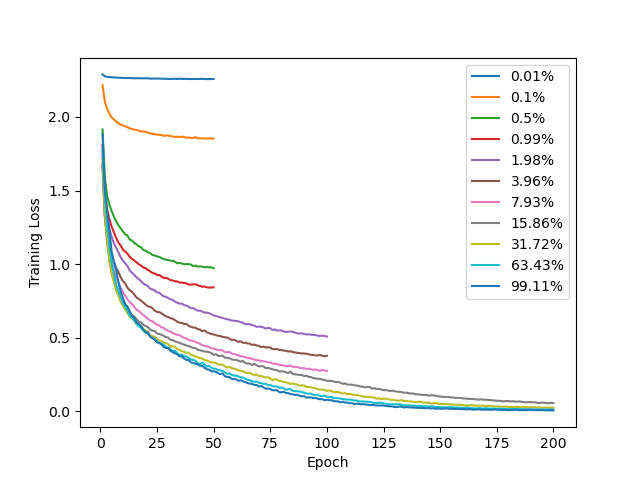
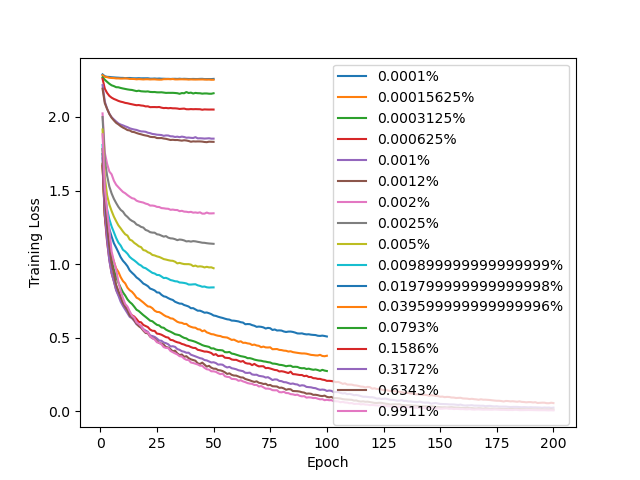
full config fo

diff --git a/src/fo_prune_config.py b/src/fo_prune_config.py
@@ -17,8 +17,10 @@ MOMENTUM = 0.95
 WEIGHT_DECAY = 5e-4
 PERTURB_EPS = 1e-5
 ONE_WAY=True
-SURVIVAL_RATE = [0.0001, 0.001, 0.005, 0.01, 0.02, 0.04, 0.08, 0.16, 0.32, 0.64, 1]
-EPOCHS = [50, 50, 50, 50, 100, 100, 100, 200, 200, 200, 200]
+# SURVIVAL_RATE = [0.0001, 0.001, 0.005, 0.01, 0.02, 0.04, 0.08, 0.16, 0.32, 0.64, 1]
+# EPOCHS = [50, 50, 50, 50, 100, 100, 100, 200, 200, 200, 200]
+SURVIVAL_RATE = [0.002]
+EPOCHS = [50]
 
 NUM_CLASSES = 10
 

diff --git a/src/graphs/graph_fo_prune_config.py b/src/graphs/graph_fo_prune_config.py
@@ -13,7 +13,7 @@ while True:
     if not line: break
 
     if line[:6] == "Params":
-        pruning_percentage = float(line.split()[1][:-1])
+        pruning_percentage = float(line.split()[1][:-1]) / 100
         num_params = int(line.split()[3].split("/")[0][1:])
         datas.append({
             "pruning_percentage": pruning_percentage,
